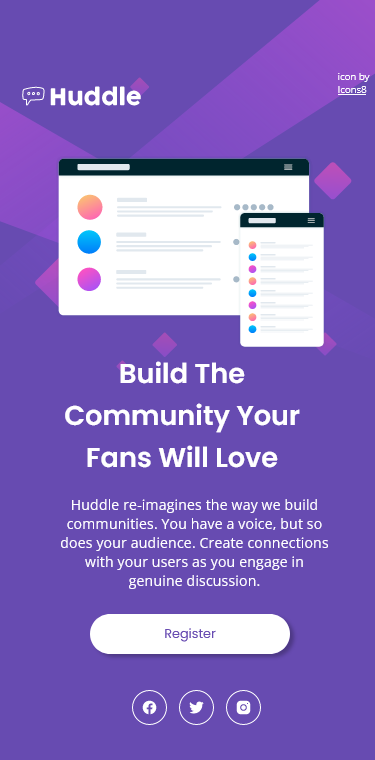
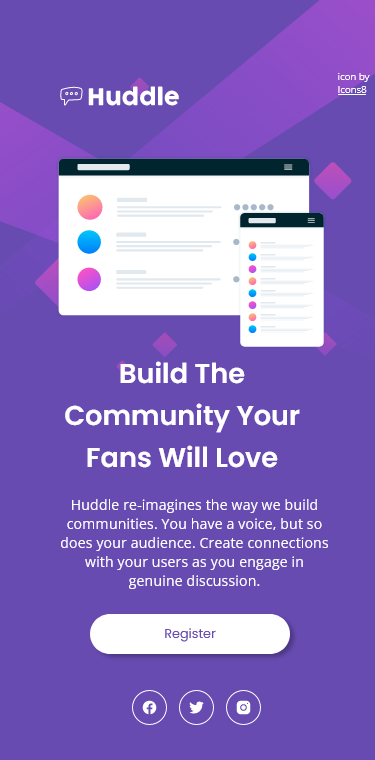
added infos

Changed region(s): [[0.0587, 0.0908, 0.4693, 0.1513]]

diff --git a/styles.css b/styles.css
@@ -158,6 +158,7 @@ header {
 
   .logo {
     padding: 0 1rem;
+    margin-left: 2.4rem;
     width: 10rem;
   }
 

diff --git a/README-template.md b/README-template.md
@@ -1,20 +1,15 @@
 # Frontend Mentor - Huddle landing page with single introductory section solution
 
-This is a solution to the [Huddle landing page with single introductory section challenge on Frontend Mentor](https://www.frontendmentor.io/challenges/huddle-landing-page-with-a-single-introductory-section-B_2Wvxgi0). Frontend Mentor challenges help you improve your coding skills by building realistic projects. 
+This is a solution to the [Huddle landing page with single introductory section challenge on Frontend Mentor](https://www.frontendmentor.io/challenges/huddle-landing-page-with-a-single-introductory-section-B_2Wvxgi0). Frontend Mentor challenges help you improve your coding skills by building realistic projects.
 
 ## Table of contents
 
 - [Overview](#overview)
-  - [The challenge](#the-challenge)
   - [Screenshot](#screenshot)
   - [Links](#links)
 - [My process](#my-process)
   - [Built with](#built-with)
-  - [What I learned](#what-i-learned)
-  - [Continued development](#continued-development)
-  - [Useful resources](#useful-resources)
 - [Author](#author)
-- [Acknowledgments](#acknowledgments)
 
 **Note: Delete this note and update the table of contents based on what sections you keep.**
 
@@ -29,19 +24,12 @@ Users should be able to:
 
 ### Screenshot
 
-![](./screenshot.jpg)
-
-Add a screenshot of your solution. The easiest way to do this is to use Firefox to view your project, right-click the page and select "Take a Screenshot". You can choose either a full-height screenshot or a cropped one based on how long the page is. If it's very long, it might be best to crop it.
-
-Alternatively, you can use a tool like [FireShot](https://getfireshot.com/) to take the screenshot. FireShot has a free option, so you don't need to purchase it. 
-
-Then crop/optimize/edit your image however you like, add it to your project, and update the file path in the image above.
-
-**Note: Delete this note and the paragraphs above when you add your screenshot. If you prefer not to add a screenshot, feel free to remove this entire section.**
+![](./desktop.png)
+![](./mobile.png)
 
 ### Links
 
-- Solution URL: [Add solution URL here](https://your-solution-url.com)
+- Solution URL: [Add solution URL here](https://github.com/thirraz/huddle-landing-page)
 - Live Site URL: [Add live site URL here](https://your-live-site-url.com)
 
 ## My process
@@ -51,61 +39,8 @@ Then crop/optimize/edit your image however you like, add it to your project, and
 - Semantic HTML5 markup
 - CSS custom properties
 - Flexbox
-- CSS Grid
-- Mobile-first workflow
-- [React](https://reactjs.org/) - JS library
-- [Next.js](https://nextjs.org/) - React framework
-- [Styled Components](https://styled-components.com/) - For styles
-
-**Note: These are just examples. Delete this note and replace the list above with your own choices**
-
-### What I learned
-
-Use this section to recap over some of your major learnings while working through this project. Writing these out and providing code samples of areas you want to highlight is a great way to reinforce your own knowledge.
-
-To see how you can add code snippets, see below:
-
-```html
-<h1>Some HTML code I'm proud of</h1>
-```
-```css
-.proud-of-this-css {
-  color: papayawhip;
-}
-```
-```js
-const proudOfThisFunc = () => {
-  console.log('🎉')
-}
-```
-
-If you want more help with writing markdown, we'd recommend checking out [The Markdown Guide](https://www.markdownguide.org/) to learn more.
-
-**Note: Delete this note and the content within this section and replace with your own learnings.**
-
-### Continued development
-
-Use this section to outline areas that you want to continue focusing on in future projects. These could be concepts you're still not completely comfortable with or techniques you found useful that you want to refine and perfect.
-
-**Note: Delete this note and the content within this section and replace with your own plans for continued development.**
-
-### Useful resources
-
-- [Example resource 1](https://www.example.com) - This helped me for XYZ reason. I really liked this pattern and will use it going forward.
-- [Example resource 2](https://www.example.com) - This is an amazing article which helped me finally understand XYZ. I'd recommend it to anyone still learning this concept.
-
-**Note: Delete this note and replace the list above with resources that helped you during the challenge. These could come in handy for anyone viewing your solution or for yourself when you look back on this project in the future.**
 
 ## Author
 
-- Website - [Add your name here](https://www.your-site.com)
-- Frontend Mentor - [@yourusername](https://www.frontendmentor.io/profile/yourusername)
-- Twitter - [@yourusername](https://www.twitter.com/yourusername)
-
-**Note: Delete this note and add/remove/edit lines above based on what links you'd like to share.**
-
-## Acknowledgments
-
-This is where you can give a hat tip to anyone who helped you out on this project. Perhaps you worked in a team or got some inspiration from someone else's solution. This is the perfect place to give them some credit.
-
-**Note: Delete this note and edit this section's content as necessary. If you completed this challenge by yourself, feel free to delete this section entirely.**
+- Frontend Mentor - [@thirraz](https://www.frontendmentor.io/profile/thirraz)
+- Twitter - [@thirrazgo](https://www.twitter.com/thirrazgo)
